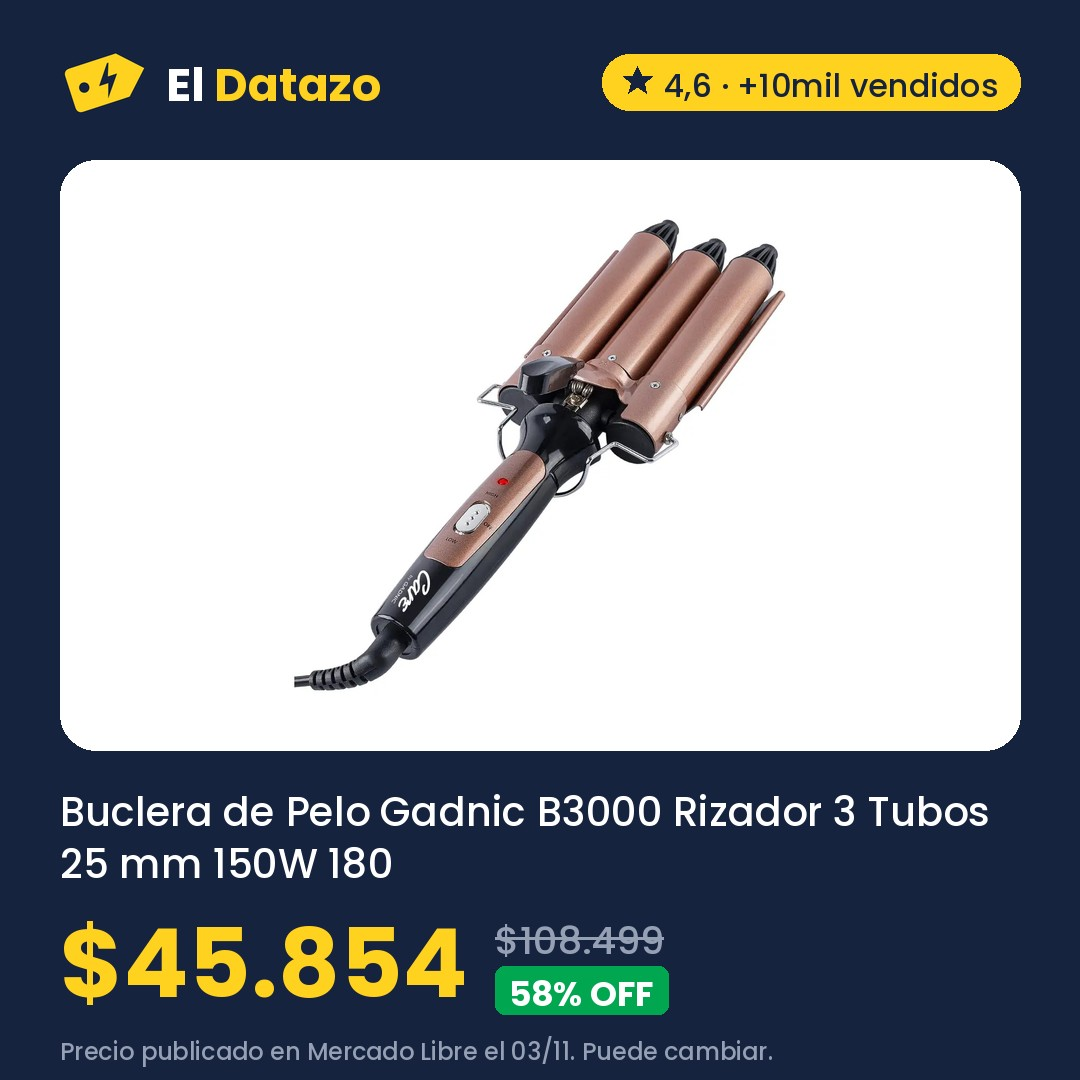
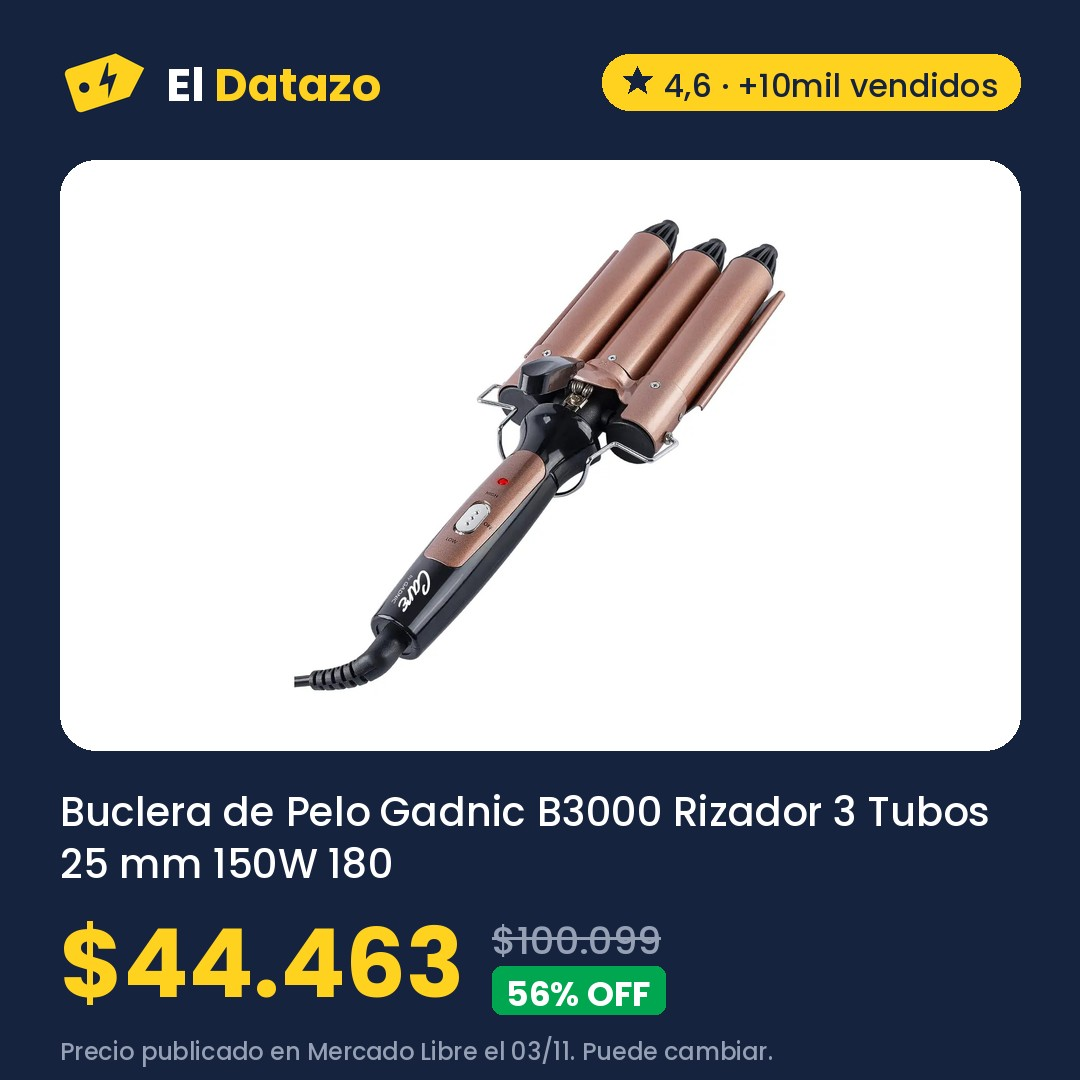
Ofertas 2026-11-03 19:31

Changed region(s): [[0.1528, 0.8556, 0.4278, 0.9472], [0.4583, 0.8556, 0.6111, 0.9472]]

diff --git a/index.html b/index.html
@@ -293,7 +293,7 @@ padding:3px 9px;border-radius:999px}
       <p class="hero-precio">$43.482</p>
       <p class="hero-antes"><s>$138.899</s> <span class="off">69% OFF</span></p>
       <p class="bajo pastilla"><b>⬇ Volvió y bajó</b> · Antes $46.899 el 02/11 · 7% menos</p>
-      <p class="nota">Precio del 02/11 en Mercado Libre, revisado hoy a las 11:34. Puede cambiar.</p>
+      <p class="nota">Precio del 02/11 en Mercado Libre, revisado hoy a las 16:31. Puede cambiar.</p>
       <a class="boton oscuro" href="https://meli.la/314C11i" rel="sponsored noopener" target="_blank"
          data-oferta="MLA47200126">Ver oferta en Mercado Libre</a>
       <a class="compartir" href="https://wa.me/?text=Mir%C3%A1%20este%20datazo%3A%20Extractor%20De%20Leche%20El%C3%A9ctrico%20Mawe%20By%20Gadnic%20RH-289%20150%20ml%209%20Niveles%20Pantalla%20LED%20Bater%C3%ADa%20Recargable%201200mAh%20a%20%2443.482%20https%3A//eldatazo.com.ar/%23MLA47200126" target="_blank" rel="noopener" data-estilo="texto"><svg viewBox="0 0 24 24" width="16" height="16" aria-hidden="true"><path d="M4 20l1.3-4A8 8 0 1 1 8 18.7L4 20z" fill="none" stroke="currentColor" stroke-width="2" stroke-linejoin="round"/></svg> Compartir por WhatsApp</a>
@@ -301,7 +301,7 @@ padding:3px 9px;border-radius:999px}
   </section>
       
   <section class="franja-bajo" aria-labelledby="bajo-titulo">
-    <h2 id="bajo-titulo">⬇ Bajaron de precio <span>22</span></h2>
+    <h2 id="bajo-titulo">⬇ Bajaron de precio <span>23</span></h2>
     <ul class="franja-lista">
         <li><a href="#MLA73800060"><img src="img/MLA73800060.jpg" alt="" loading="lazy">
           <span><b>Libro: Primero Yo, Después El Resto: 120 Sesiones De Verdad</b><span class="ahora">$17.000</span><s>$33.000</s> <span class="bajo">⬇ Bajó</span></span></a></li>
@@ -321,12 +321,12 @@ padding:3px 9px;border-radius:999px}
           <span><b>Cámara Digital Kodak Charmera RK0601 Retro Compacta para Llavero y Video</b><span class="ahora">$54.454</span><s>$57.573</s> <span class="bajo">⬇ Bajó</span></span></a></li>
         <li><a href="#MLA43803009"><img src="img/MLA43803009.jpg" alt="" loading="lazy">
           <span><b>Mochila Viaje Carry On Avion Porta Notebook Waggs Negro Lisa</b><span class="ahora">$45.087</span><s>$46.799</s> <span class="bajo">⬇ Volvió y bajó</span></span></a></li>
+        <li><a href="#MLA69121337"><img src="img/MLA69121337.jpg" alt="" loading="lazy">
+          <span><b>Figuritas Panini X 25 Sobres World Cup 2026 Mundial 2026</b><span class="ahora">$40.593</span><s>$41.848</s> <span class="bajo">⬇ Volvió y bajó</span></span></a></li>
         <li><a href="#MLA26522167"><img src="img/MLA26522167.jpg" alt="" loading="lazy">
           <span><b>Equipo de Alta Frecuencia Gadnic LF60 Antienvejecimiento Antiacné Reafirmante Facial 4 Electrodos</b><span class="ahora">$42.441</span><s>$43.149</s> <span class="bajo">⬇ Volvió y bajó</span></span></a></li>
         <li><a href="#MLA16048275"><img src="img/MLA16048275.jpg" alt="" loading="lazy">
           <span><b>Eucerin Sun Oil Control Protector solar facial Toque Seco FPS 50 x 50 ml</b><span class="ahora">$35.318</span> <span class="bajo">⬇ Volvió</span></span></a></li>
-        <li><a href="#MLA22130330"><img src="img/MLA22130330.jpg" alt="" loading="lazy">
-          <span><b>Buclera de Pelo Gadnic B3000 Rizador 3 Tubos 25 mm 150W 180 210 C</b><span class="ahora">$45.854</span> <span class="bajo">⬇ Volvió</span></span></a></li>
     </ul>
   </section>
       
@@ -346,10 +346,28 @@ padding:3px 9px;border-radius:999px}
             <option value="precio">Más baratas</option>
           </select></label>
       </div>
-      <div class="chips" role="group" aria-label="Rubro"><button type="button" data-filtro="" aria-pressed="true">Todo</button><button type="button" data-filtro="MLA1512" aria-pressed="false">Agro <span>3</span></button><button type="button" data-filtro="MLA1246" aria-pressed="false">Belleza y Cuidado Personal <span>3</span></button><button type="button" data-filtro="MLA1499" aria-pressed="false">Industrias y Oficinas <span>2</span></button><button type="button" data-filtro="MLA409431" aria-pressed="false">Salud y Equipamiento Médico <span>2</span></button><button type="button" data-filtro="MLA1144" aria-pressed="false">Consolas y Videojuegos <span>1</span></button><button type="button" data-filtro="MLA1500" aria-pressed="false">Construcción <span>1</span></button><button type="button" data-filtro="MLA1039" aria-pressed="false">Cámaras y Accesorios <span>1</span></button><button type="button" data-filtro="MLA1276" aria-pressed="false">Deportes y Fitness <span>1</span></button><button type="button" data-filtro="MLA3025" aria-pressed="false">Libros, Revistas y Comics <span>1</span></button><button type="button" data-filtro="MLA1430" aria-pressed="false">Ropa y Accesorios <span>1</span></button></div>
-      <p class="contador" aria-live="polite"><span data-cuenta>16</span> ofertas</p>
+      <div class="chips" role="group" aria-label="Rubro"><button type="button" data-filtro="" aria-pressed="true">Todo</button><button type="button" data-filtro="MLA1512" aria-pressed="false">Agro <span>3</span></button><button type="button" data-filtro="MLA1246" aria-pressed="false">Belleza y Cuidado Personal <span>3</span></button><button type="button" data-filtro="MLA1499" aria-pressed="false">Industrias y Oficinas <span>2</span></button><button type="button" data-filtro="MLA409431" aria-pressed="false">Salud y Equipamiento Médico <span>2</span></button><button type="button" data-filtro="MLA1144" aria-pressed="false">Consolas y Videojuegos <span>1</span></button><button type="button" data-filtro="MLA1500" aria-pressed="false">Construcción <span>1</span></button><button type="button" data-filtro="MLA1039" aria-pressed="false">Cámaras y Accesorios <span>1</span></button><button type="button" data-filtro="MLA1276" aria-pressed="false">Deportes y Fitness <span>1</span></button><button type="button" data-filtro="MLA1132" aria-pressed="false">Juegos y Juguetes <span>1</span></button><button type="button" data-filtro="MLA3025" aria-pressed="false">Libros, Revistas y Comics <span>1</span></button><button type="button" data-filtro="MLA1430" aria-pressed="false">Ropa y Accesorios <span>1</span></button></div>
+      <p class="contador" aria-live="polite"><span data-cuenta>17</span> ofertas</p>
     </div>
     <div class="grilla activas">
+      <article class="tarjeta destacada" id="MLA69121337" data-rubro="MLA1132" data-off="3" data-pub="2026-11-03" data-quedan="7" data-precio="40592" data-bajo="4" data-texto="figuritas panini x 25 sobres world cup 2026 mundial 2026">
+        <div class="tarjeta-foto">
+          <img src="img/MLA69121337.jpg" alt="Figuritas Panini X 25 Sobres World Cup 2026 Mundial 2026" loading="lazy" width="1080" height="1080">
+        </div>
+        <div class="cuerpo">
+          <div class="fila"><span class="sello baja">⬇ Volvió y bajó</span><span class="sello">Quedan 7 días</span><span class="rubro">Juegos y Juguetes</span></div>
+          <h3>Figuritas Panini X 25 Sobres World Cup 2026 Mundial 2026</h3>
+          <p class="precios "><span class="precio">$40.593</span><s class="antes">$41.848</s><span class="off">3% OFF</span></p>
+          <p class="bajo">Antes $41.848 el 30/10 · 3% menos</p>
+          <p class="nota">Precio de hoy a las 16:31 en Mercado Libre. Puede cambiar.</p>
+          <div class="acciones">
+            <a class="boton" href="https://meli.la/1qNpAcw" rel="sponsored noopener" target="_blank"
+               data-oferta="MLA69121337">Ver oferta</a>
+            <a class="compartir" href="https://wa.me/?text=Mir%C3%A1%20este%20datazo%3A%20Figuritas%20Panini%20X%2025%20Sobres%20World%20Cup%202026%20Mundial%202026%20a%20%2440.593%20https%3A//eldatazo.com.ar/%23MLA69121337" target="_blank" rel="noopener"
+               aria-label="Compartir por WhatsApp" title="Compartir por WhatsApp"><svg viewBox="0 0 24 24" width="16" height="16" aria-hidden="true"><path d="M4 20l1.3-4A8 8 0 1 1 8 18.7L4 20z" fill="none" stroke="currentColor" stroke-width="2" stroke-linejoin="round"/></svg></a>
+          </div>
+        </div>
+      </article>
       <article class="tarjeta destacada" id="MLA16048275" data-rubro="MLA1246" data-off="53" data-pub="2026-11-02" data-quedan="6" data-precio="35318" data-bajo="1" data-texto="eucerin sun oil control protector solar facial toque seco fps 50 x 50 ml">
         <div class="tarjeta-foto">
           <img src="img/MLA16048275.jpg" alt="Eucerin Sun Oil Control Protector solar facial Toque Seco FPS 50 x 50 ml" loading="lazy" width="1080" height="1080">
@@ -359,7 +377,7 @@ padding:3px 9px;border-radius:999px}
           <h3>Eucerin Sun Oil Control Protector solar facial Toque Seco FPS 50 x 50 ml</h3>
           <p class="precios "><span class="precio">$35.318</span><s class="antes">$75.301</s><span class="off">53% OFF</span></p>
           <p class="bajo">Había terminado y volvió al mismo precio</p>
-          <p class="nota">Precio del 02/11 en Mercado Libre, revisado hoy a las 11:34. Puede cambiar.</p>
+          <p class="nota">Precio del 02/11 en Mercado Libre, revisado hoy a las 16:31. Puede cambiar.</p>
           <div class="acciones">
             <a class="boton" href="https://meli.la/2Zpeewk" rel="sponsored noopener" target="_blank"
                data-oferta="MLA16048275">Ver oferta</a>
@@ -377,7 +395,7 @@ padding:3px 9px;border-radius:999px}
           <h3>Yelmo As-3240 Aspiradora Para Auto Recargable Usb Color Gris</h3>
           <p class="precios "><span class="precio">$32.899</span><s class="antes">$59.899</s><span class="off">45% OFF</span></p>
           <p class="bajo">Antes $36.567 el 02/11 · 10% menos</p>
-          <p class="nota">Precio de hoy a las 11:34 en Mercado Libre. Puede cambiar.</p>
+          <p class="nota">Precio de hoy a las 16:31 en Mercado Libre. Puede cambiar.</p>
           <div class="acciones">
             <a class="boton" href="https://meli.la/1BA5g6k" rel="sponsored noopener" target="_blank"
                data-oferta="MLA19719361">Ver oferta</a>
@@ -386,20 +404,20 @@ padding:3px 9px;border-radius:999px}
           </div>
         </div>
       </article>
-      <article class="tarjeta destacada" id="MLA22130330" data-rubro="MLA1246" data-off="58" data-pub="2026-11-02" data-quedan="6" data-precio="45854" data-bajo="1" data-texto="buclera de pelo gadnic b3000 rizador 3 tubos 25 mm 150w 180 210 c">
+      <article class="tarjeta destacada" id="MLA22130330" data-rubro="MLA1246" data-off="56" data-pub="2026-11-02" data-quedan="6" data-precio="44462" data-bajo="1" data-texto="buclera de pelo gadnic b3000 rizador 3 tubos 25 mm 150w 180 210 c">
         <div class="tarjeta-foto">
           <img src="img/MLA22130330.jpg" alt="Buclera de Pelo Gadnic B3000 Rizador 3 Tubos 25 mm 150W 180 210 C" loading="lazy" width="1080" height="1080">
         </div>
         <div class="cuerpo">
           <div class="fila"><span class="sello baja">⬇ Volvió</span><span class="sello">Quedan 6 días</span><span class="rubro">Belleza y Cuidado Personal</span></div>
           <h3>Buclera de Pelo Gadnic B3000 Rizador 3 Tubos 25 mm 150W 180 210 C</h3>
-          <p class="precios "><span class="precio">$45.854</span><s class="antes">$108.499</s><span class="off">58% OFF</span></p>
+          <p class="precios "><span class="precio">$44.463</span><s class="antes">$100.099</s><span class="off">56% OFF</span></p>
           <p class="bajo">Había terminado y volvió al mismo precio</p>
-          <p class="nota">Precio de hoy a las 11:34 en Mercado Libre. Puede cambiar.</p>
+          <p class="nota">Precio de hoy a las 16:31 en Mercado Libre. Puede cambiar.</p>
           <div class="acciones">
             <a class="boton" href="https://meli.la/1HyqnAD" rel="sponsored noopener" target="_blank"
                data-oferta="MLA22130330">Ver oferta</a>
-            <a class="compartir" href="https://wa.me/?text=Mir%C3%A1%20este%20datazo%3A%20Buclera%20de%20Pelo%20Gadnic%20B3000%20Rizador%203%20Tubos%2025%20mm%20150W%20180%20210%20C%20a%20%2445.854%20https%3A//eldatazo.com.ar/%23MLA22130330" target="_blank" rel="noopener"
+            <a class="compartir" href="https://wa.me/?text=Mir%C3%A1%20este%20datazo%3A%20Buclera%20de%20Pelo%20Gadnic%20B3000%20Rizador%203%20Tubos%2025%20mm%20150W%20180%20210%20C%20a%20%2444.463%20https%3A//eldatazo.com.ar/%23MLA22130330" target="_blank" rel="noopener"
                aria-label="Compartir por WhatsApp" title="Compartir por WhatsApp"><svg viewBox="0 0 24 24" width="16" height="16" aria-hidden="true"><path d="M4 20l1.3-4A8 8 0 1 1 8 18.7L4 20z" fill="none" stroke="currentColor" stroke-width="2" stroke-linejoin="round"/></svg></a>
           </div>
         </div>
@@ -413,7 +431,7 @@ padding:3px 9px;border-radius:999px}
           <h3>Crique Hidraulico Carrito Gato Para Autos 2 Tn Mejor Calidad</h3>
           <p class="precios "><span class="precio">$47.890</span><s class="antes">$58.014</s><span class="off">17% OFF</span></p>
           <p class="bajo">Antes $54.533 el 01/11 · 12% menos</p>
-          <p class="nota">Precio del 02/11 en Mercado Libre, revisado hoy a las 11:34. Puede cambiar.</p>
+          <p class="nota">Precio del 02/11 en Mercado Libre, revisado hoy a las 16:31. Puede cambiar.</p>
           <div class="acciones">
             <a class="boton" href="https://meli.la/2ZwvMNb" rel="sponsored noopener" target="_blank"
                data-oferta="MLA24729106">Ver oferta</a>
@@ -431,7 +449,7 @@ padding:3px 9px;border-radius:999px}
           <h3>Equipo de Alta Frecuencia Gadnic LF60 Antienvejecimiento Antiacné Reafirmante Facial 4 Electrodos</h3>
           <p class="precios "><span class="precio">$42.441</span><s class="antes">$90.999</s><span class="off">53% OFF</span></p>
           <p class="bajo">Antes $43.149 el 28/10 · 2% menos</p>
-          <p class="nota">Precio del 02/11 en Mercado Libre, revisado hoy a las 11:34. Puede cambiar.</p>
+          <p class="nota">Precio del 02/11 en Mercado Libre, revisado hoy a las 16:31. Puede cambiar.</p>
           <div class="acciones">
             <a class="boton" href="https://meli.la/1guS1ep" rel="sponsored noopener" target="_blank"
                data-oferta="MLA26522167">Ver oferta</a>
@@ -440,20 +458,20 @@ padding:3px 9px;border-radius:999px}
           </div>
         </div>
       </article>
-      <article class="tarjeta destacada" id="MLA28878536" data-rubro="MLA1500" data-off="1" data-pub="2026-11-02" data-quedan="6" data-precio="44999" data-bajo="1" data-texto="botiquín de baño trento amube 30x50 cm | espejo y repisa | melamina blanca">
+      <article class="tarjeta destacada" id="MLA28878536" data-rubro="MLA1500" data-off="3" data-pub="2026-11-02" data-quedan="6" data-precio="43999" data-bajo="1" data-texto="botiquín de baño trento amube 30x50 cm | espejo y repisa | melamina blanca">
         <div class="tarjeta-foto">
           <img src="img/MLA28878536.jpg" alt="BOTIQUÍN DE BAÑO TRENTO AMUBE 30x50 CM | Espejo y Repisa | Melamina Blanca" loading="lazy" width="1080" height="1080">
         </div>
         <div class="cuerpo">
           <div class="fila"><span class="sello baja">⬇ Volvió</span><span class="sello">Quedan 6 días</span><span class="rubro">Construcción</span></div>
           <h3>BOTIQUÍN DE BAÑO TRENTO AMUBE 30x50 CM | Espejo y Repisa | Melamina Blanca</h3>
-          <p class="precios "><span class="precio">$44.999</span><s class="antes">$45.394</s><span class="off">1% OFF</span></p>
+          <p class="precios "><span class="precio">$43.999</span><s class="antes">$45.394</s><span class="off">3% OFF</span></p>
           <p class="bajo">Había terminado y volvió al mismo precio</p>
-          <p class="nota">Precio de hoy a las 11:34 en Mercado Libre. Puede cambiar.</p>
+          <p class="nota">Precio de hoy a las 16:31 en Mercado Libre. Puede cambiar.</p>
           <div class="acciones">
             <a class="boton" href="https://meli.la/2PKMfSp" rel="sponsored noopener" target="_blank"
                data-oferta="MLA28878536">Ver oferta</a>
-            <a class="compartir" href="https://wa.me/?text=Mir%C3%A1%20este%20datazo%3A%20BOTIQU%C3%8DN%20DE%20BA%C3%91O%20TRENTO%20AMUBE%2030x50%20CM%20%7C%20Espejo%20y%20Repisa%20%7C%20Melamina%20Blanca%20a%20%2444.999%20https%3A//eldatazo.com.ar/%23MLA28878536" target="_blank" rel="noopener"
+            <a class="compartir" href="https://wa.me/?text=Mir%C3%A1%20este%20datazo%3A%20BOTIQU%C3%8DN%20DE%20BA%C3%91O%20TRENTO%20AMUBE%2030x50%20CM%20%7C%20Espejo%20y%20Repisa%20%7C%20Melamina%20Blanca%20a%20%2443.999%20https%3A//eldatazo.com.ar/%23MLA28878536" target="_blank" rel="noopener"
                aria-label="Compartir por WhatsApp" title="Compartir por WhatsApp"><svg viewBox="0 0 24 24" width="16" height="16" aria-hidden="true"><path d="M4 20l1.3-4A8 8 0 1 1 8 18.7L4 20z" fill="none" stroke="currentColor" stroke-width="2" stroke-linejoin="round"/></svg></a>
           </div>
         </div>
@@ -467,7 +485,7 @@ padding:3px 9px;border-radius:999px}
           <h3>Mochila Viaje Carry On Avion Porta Notebook Waggs Negro Lisa</h3>
           <p class="precios "><span class="precio">$45.087</span><s class="antes">$96.758</s><span class="off">53% OFF</span></p>
           <p class="bajo">Antes $46.799 el 28/10 · 4% menos</p>
-          <p class="nota">Precio del 02/11 en Mercado Libre, revisado hoy a las 11:34. Puede cambiar.</p>
+          <p class="nota">Precio del 02/11 en Mercado Libre, revisado hoy a las 16:31. Puede cambiar.</p>
           <div class="acciones">
             <a class="boton" href="https://meli.la/1Y9GX65" rel="sponsored noopener" target="_blank"
                data-oferta="MLA43803009">Ver oferta</a>
@@ -485,7 +503,7 @@ padding:3px 9px;border-radius:999px}
           <h3>Libro: Primero Yo, Después El Resto: 120 Sesiones De Verdad</h3>
           <p class="precios "><span class="precio">$17.000</span></p>
           <p class="bajo">Antes $33.000 el 01/11 · 48% menos</p>
-          <p class="nota">Precio del 02/11 en Mercado Libre, revisado hoy a las 11:34. Puede cambiar.</p>
+          <p class="nota">Precio del 02/11 en Mercado Libre, revisado hoy a las 16:31. Puede cambiar.</p>
           <div class="acciones">
             <a class="boton" href="https://meli.la/2DQxPNs" rel="sponsored noopener" target="_blank"
                data-oferta="MLA73800060">Ver oferta</a>
@@ -503,7 +521,7 @@ padding:3px 9px;border-radius:999px}
           <h3>God Of War Ragnarok Ps4 Juego Físico Nuevo Sony Original</h3>
           <p class="precios "><span class="precio">$69.999</span><s class="antes">$149.999</s><span class="off">53% OFF</span></p>
           <p class="bajo">Antes $75.999 el 01/11 · 8% menos</p>
-          <p class="nota">Precio de hoy a las 11:34 en Mercado Libre. Puede cambiar.</p>
+          <p class="nota">Precio de hoy a las 16:31 en Mercado Libre. Puede cambiar.</p>
           <div class="acciones">
             <a class="boton" href="https://meli.la/217QPCu" rel="sponsored noopener" target="_blank"
                data-oferta="MLA19472094">Ver oferta</a>
@@ -521,7 +539,7 @@ padding:3px 9px;border-radius:999px}
           <h3>Silfab AL91 Almohadilla Eléctrica Espalda Large 41 X 28 Cm</h3>
           <p class="precios "><span class="precio">$46.932</span><s class="antes">$52.990</s><span class="off">11% OFF</span></p>
           <p class="bajo">Antes $50.465 el 24/10 · 7% menos</p>
-          <p class="nota">Precio del 02/11 en Mercado Libre, revisado hoy a las 11:34. Puede cambiar.</p>
+          <p class="nota">Precio del 02/11 en Mercado Libre, revisado hoy a las 16:31. Puede cambiar.</p>
           <div class="acciones">
             <a class="boton" href="https://meli.la/2cQdCWW" rel="sponsored noopener" target="_blank"
                data-oferta="MLA23456165">Ver oferta</a>
@@ -539,7 +557,7 @@ padding:3px 9px;border-radius:999px}
           <h3>Bomba Desagote Agua Sucia Vasser De 400ps 400 Watts</h3>
           <p class="precios "><span class="precio">$71.982</span><s class="antes">$85.441</s><span class="off">16% OFF</span></p>
           <p class="bajo">Había terminado y volvió al mismo precio</p>
-          <p class="nota">Precio de hoy a las 11:34 en Mercado Libre. Puede cambiar.</p>
+          <p class="nota">Precio de hoy a las 16:31 en Mercado Libre. Puede cambiar.</p>
           <div class="acciones">
             <a class="boton" href="https://meli.la/19GEcXU" rel="sponsored noopener" target="_blank"
                data-oferta="MLA26204453">Ver oferta</a>
@@ -557,7 +575,7 @@ padding:3px 9px;border-radius:999px}
           <h3>Taladro Percutor Total Mandril 13mm 710w Tg107136 Color Turquesa Frecuencia 50 Hz x 60 Hz</h3>
           <p class="precios "><span class="precio">$70.220</span></p>
           
-          <p class="nota">Precio del 01/11 en Mercado Libre, revisado hoy a las 11:34. Puede cambiar.</p>
+          <p class="nota">Precio del 01/11 en Mercado Libre, revisado hoy a las 16:31. Puede cambiar.</p>
           <div class="acciones">
             <a class="boton" href="https://meli.la/2dUz2s5" rel="sponsored noopener" target="_blank"
                data-oferta="MLA29532448">Ver oferta</a>
@@ -575,7 +593,7 @@ padding:3px 9px;border-radius:999px}
           <h3>Cámara Digital Kodak Charmera RK0601 Retro Compacta para Llavero y Video</h3>
           <p class="precios "><span class="precio">$54.454</span><s class="antes">$80.000</s><span class="off">32% OFF</span></p>
           <p class="bajo">Antes $57.573 el 01/11 · 5% menos</p>
-          <p class="nota">Precio del 02/11 en Mercado Libre, revisado hoy a las 11:34. Puede cambiar.</p>
+          <p class="nota">Precio del 02/11 en Mercado Libre, revisado hoy a las 16:31. Puede cambiar.</p>
           <div class="acciones">
             <a class="boton" href="https://meli.la/2QAJKif" rel="sponsored noopener" target="_blank"
                data-oferta="MLA63186370">Ver oferta</a>
@@ -593,7 +611,7 @@ padding:3px 9px;border-radius:999px}
           <h3>Tensiometro Digital Brazo Bluetooth Presion Arterial Aparato Para Tomar Presion Batería Recargable Usb Medidor Automatico Femmto KF-DT65S</h3>
           <p class="precios "><span class="precio">$29.301</span><s class="antes">$50.000</s><span class="off">41% OFF</span></p>
           <p class="bajo">Había terminado y volvió al mismo precio</p>
-          <p class="nota">Precio de hoy a las 11:34 en Mercado Libre. Puede cambiar.</p>
+          <p class="nota">Precio de hoy a las 16:31 en Mercado Libre. Puede cambiar.</p>
           <div class="acciones">
             <a class="boton" href="https://meli.la/2V53bXq" rel="sponsored noopener" target="_blank"
                data-oferta="MLA76118504">Ver oferta</a>
@@ -611,7 +629,7 @@ padding:3px 9px;border-radius:999px}
           <h3>Colchón Inflable Doble Klimber + Inflador + 2 Almohadas</h3>
           <p class="precios "><span class="precio">$45.319</span><s class="antes">$79.381</s><span class="off">43% OFF</span></p>
           <p class="bajo">Antes $47.990 el 01/11 · 6% menos</p>
-          <p class="nota">Precio del 02/11 en Mercado Libre, revisado hoy a las 11:34. Puede cambiar.</p>
+          <p class="nota">Precio del 02/11 en Mercado Libre, revisado hoy a las 16:31. Puede cambiar.</p>
           <div class="acciones">
             <a class="boton" href="https://meli.la/19eMhmv" rel="sponsored noopener" target="_blank"
                data-oferta="MLA22764635">Ver oferta</a>
@@ -629,7 +647,7 @@ padding:3px 9px;border-radius:999px}
           <h3>Rotuladora Portátil Niimbot Etiquetadora Manual Impresora Color Blanco D110</h3>
           <p class="precios "><span class="precio">$40.596</span><s class="antes">$58.900</s><span class="off">31% OFF</span></p>
           
-          <p class="nota">Precio del 02/11 en Mercado Libre, revisado hoy a las 11:34. Puede cambiar.</p>
+          <p class="nota">Precio del 02/11 en Mercado Libre, revisado hoy a las 16:31. Puede cambiar.</p>
           <div class="acciones">
             <a class="boton" href="https://meli.la/1czSFp6" rel="sponsored noopener" target="_blank"
                data-oferta="MLA45260672">Ver oferta</a>
@@ -898,7 +916,7 @@ padding:3px 9px;border-radius:999px}
     </div>
   </section>
     <div class="envoltura">
-      <details class="terminadas"><summary>Terminadas · ofertas que ya no están vigentes (27)</summary>
+      <details class="terminadas"><summary>Terminadas · ofertas que ya no están vigentes (26)</summary>
 <div class="grilla">
       <article class="tarjeta terminada" id="MLA24496709">
         <div class="tarjeta-foto">
@@ -953,17 +971,6 @@ padding:3px 9px;border-radius:999px}
           <p class="nota">Terminó el 01/11. El link sigue abierto: mirá el precio de hoy.</p>
           <a class="boton suave" href="https://meli.la/2kAwAe6" rel="sponsored noopener" target="_blank"
              data-oferta="MLA28052339">Ver precio de hoy</a>
-        </div>
-      </article>
-      <article class="tarjeta terminada" id="MLA69121337">
-        <div class="tarjeta-foto">
-          <img src="img/MLA69121337_terminada.jpg" alt="Figuritas Panini X 25 Sobres World Cup 2026 Mundial 2026" loading="lazy" width="1080" height="1080">
-        </div>
-        <div class="cuerpo">
-          <h3>Figuritas Panini X 25 Sobres World Cup 2026 Mundial 2026</h3>
-          <p class="nota">Terminó el 01/11. El link sigue abierto: mirá el precio de hoy.</p>
-          <a class="boton suave" href="https://meli.la/1qNpAcw" rel="sponsored noopener" target="_blank"
-             data-oferta="MLA69121337">Ver precio de hoy</a>
         </div>
       </article>
       <article class="tarjeta terminada" id="MLA19974075">
@@ -1205,7 +1212,7 @@ padding:3px 9px;border-radius:999px}
       <nav class="redes" aria-label="Redes de El Datazo"><a class="red" href="https://www.instagram.com/eldatazo.arg/" target="_blank" rel="noopener"><svg viewBox="0 0 24 24" width="18" height="18" aria-hidden="true"><rect x="3" y="3" width="18" height="18" rx="5" fill="none" stroke="currentColor" stroke-width="2"/><circle cx="12" cy="12" r="4" fill="none" stroke="currentColor" stroke-width="2"/><circle cx="17.5" cy="6.5" r="1.3" fill="currentColor"/></svg> Instagram</a><a class="red" href="https://www.facebook.com/profile.php?id=61595441168911" target="_blank" rel="noopener"><svg viewBox="0 0 24 24" width="18" height="18" aria-hidden="true"><path d="M14 8h3V4h-3a4 4 0 0 0-4 4v2H7v4h3v8h4v-8h3l1-4h-4V8z" fill="currentColor"/></svg> Facebook</a><a class="red" href="https://t.me/eldatazo_ofertas" target="_blank" rel="noopener"><svg viewBox="0 0 24 24" width="18" height="18" aria-hidden="true"><path d="M21 4 3 11l5 2 2 6 3-4 5 4 3-15zM9 13l9-6-7 8" fill="none" stroke="currentColor" stroke-width="1.8" stroke-linejoin="round"/></svg> Telegram</a></nav>
       <p>Los links son de afiliado de Mercado Libre: si comprás, El Datazo puede recibir una comisión, sin que cambie
       tu precio. Los precios son los publicados en Mercado Libre el día indicado y pueden cambiar.</p>
-      <p>Actualizado el 03/11/2026 11:35 (hora argentina) · <a href="privacidad/">Privacidad</a></p>
+      <p>Actualizado el 03/11/2026 16:31 (hora argentina) · <a href="privacidad/">Privacidad</a></p>
     </div>
   </footer>
   
